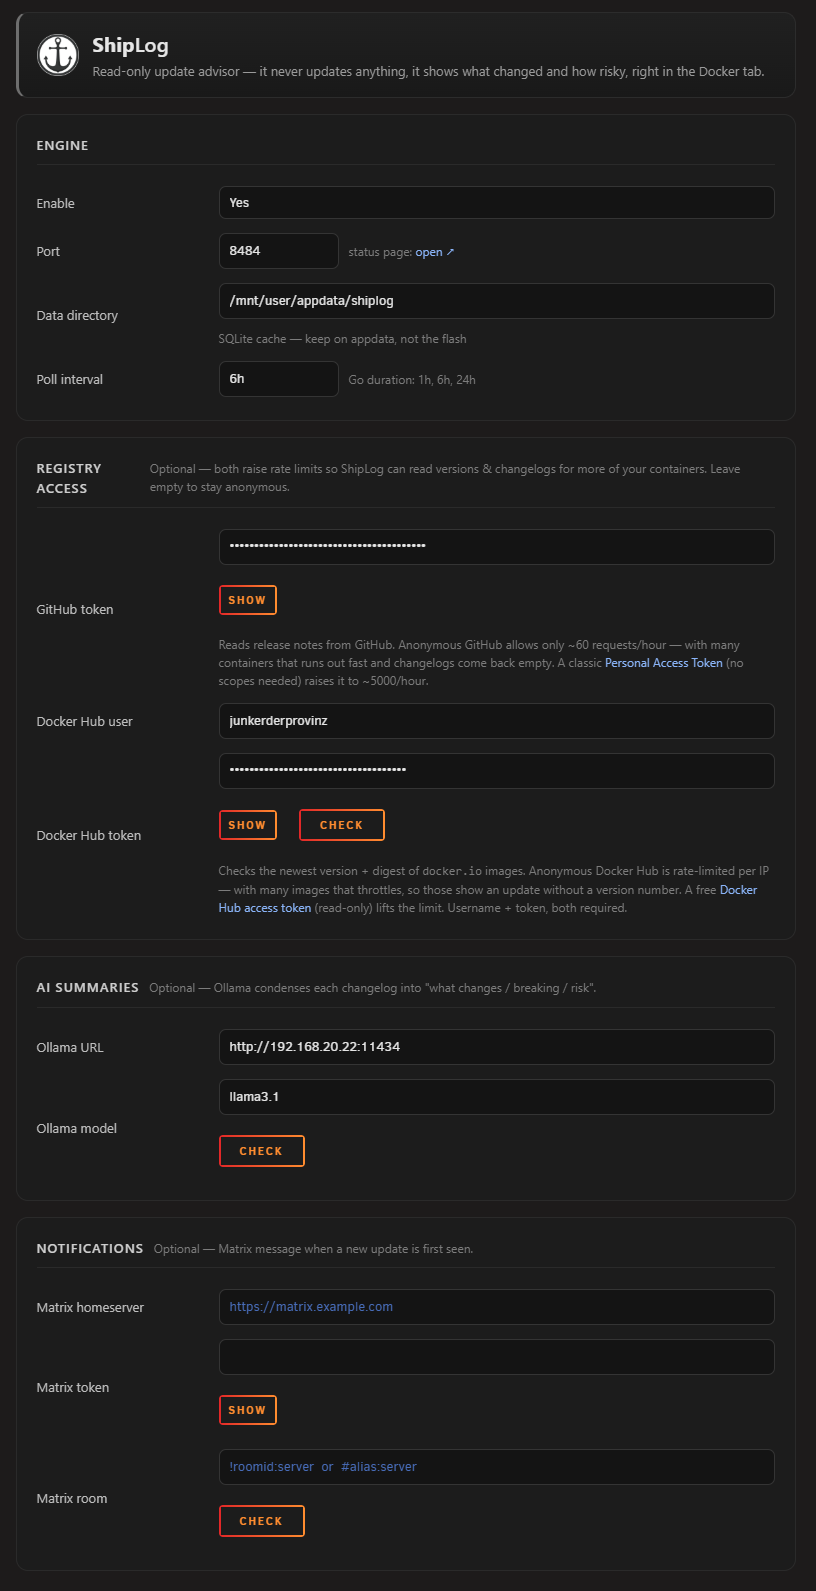
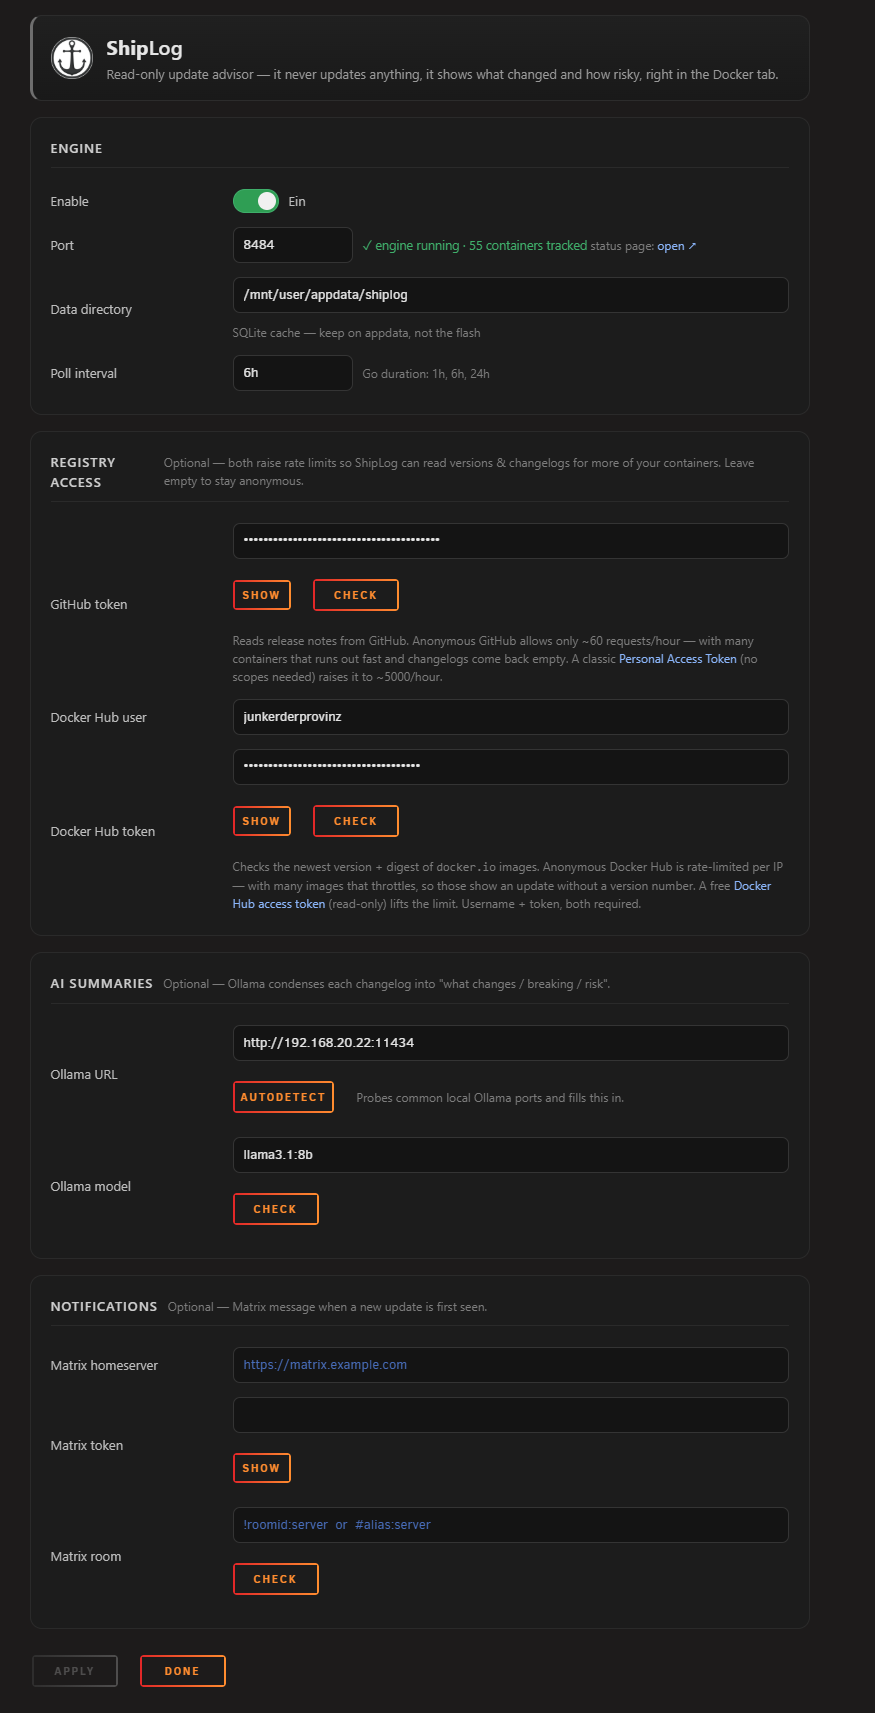
docs(readme): refresh bubble + settings screenshots for the v1.2.x UI
new changelog-bubble (version jump + AI summary + Update-now/Repository buttons)
and settings (green toggle, engine-status line, orange Unraid-style buttons,
Ollama autodetect); captions updated to match.

diff --git a/README.md b/README.md
@@ -49,7 +49,7 @@ A single static Go binary on a distroless image (~tens of MB, low idle RAM) that
 
 <p align="center">
   <img src=".github/assets/screenshots/changelog-bubble.png" alt="ShipLog changelog bubble in Unraid's Docker tab" width="90%">
-  <br><em>Click the Changelog chip on any container — the bubble shows the version jump, a risk badge, and the raw release notes, right in Unraid's Docker tab.</em>
+  <br><em>Click the Changelog chip on any container — the bubble shows the version jump, a risk badge, the release notes, an optional AI summary, and a read-only Update-now button, right in Unraid's Docker tab.</em>
 </p>
 
 <br>
@@ -63,7 +63,7 @@ A single static Go binary on a distroless image (~tens of MB, low idle RAM) that
 
 <p align="center">
   <img src=".github/assets/screenshots/settings.png" alt="ShipLog settings page" width="62%">
-  <br><em>Settings: poll interval, optional GitHub / Docker Hub tokens for more changelogs, plus optional Ollama summaries and Matrix alerts.</em>
+  <br><em>Settings: poll interval, a live engine-status line, optional GitHub / Docker Hub tokens for more changelogs, Ollama (with autodetect) for AI summaries, and Matrix alerts.</em>
 </p>
 
 <br>
